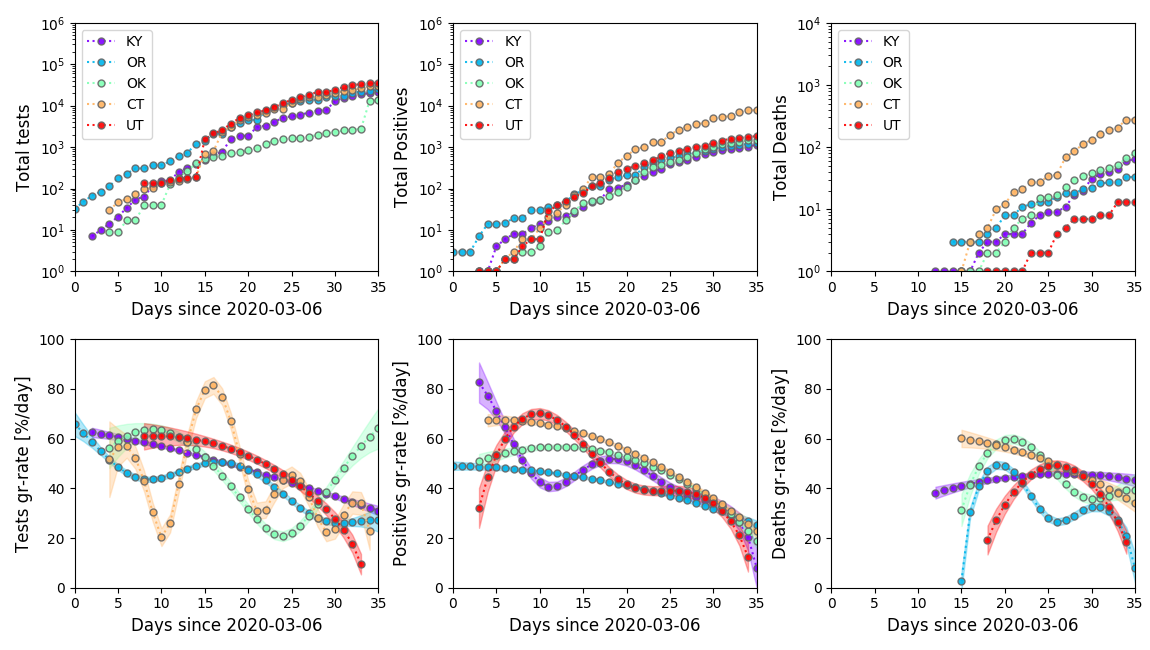
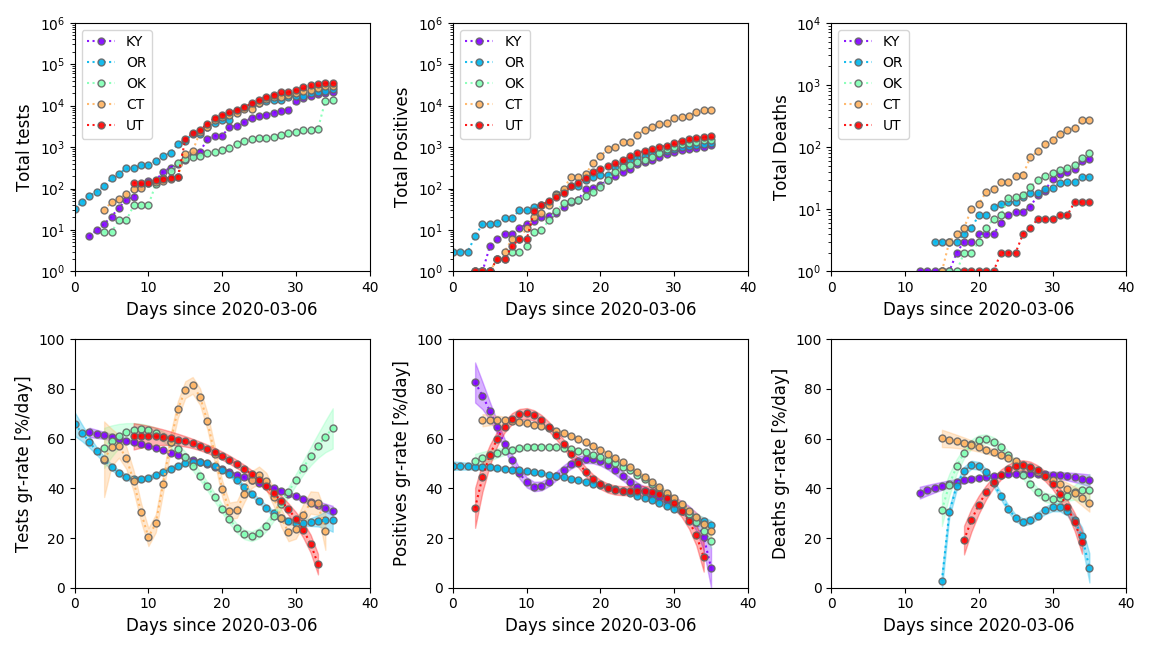
Update US rates relative to time figures

diff --git a/src/usa_states_rates_plot.py b/src/usa_states_rates_plot.py
@@ -76,12 +76,12 @@ def get_list_colors(cmapstr, N):
 
 def make_fig2(states):
     fig, axes = plt.subplots(ncols=3, nrows=2, figsize=(11.5, 6.5))
-    local_axes_formatting(axes[0, 0], "Days since 2020-03-06", "Total tests", xlim2=35, ylim2=1e06, xlim1=0, ylim1=1, fs=12, logx=False)
-    local_axes_formatting(axes[0, 1], "Days since 2020-03-06", "Total Positives", xlim2=35, ylim2=1e06, xlim1=0, ylim1=1, fs=12, logx=False)
-    local_axes_formatting(axes[0, 2], "Days since 2020-03-06", "Total Deaths", xlim2=35, ylim2=1e04, xlim1=0, ylim1=1, fs=12, logx=False)
-    local_axes_formatting(axes[1, 0], "Days since 2020-03-06", "Tests gr-rate [%/day]", xlim2=35, ylim2=100, xlim1=0, ylim1=0, fs=12, logx=False, logy=False)
-    local_axes_formatting(axes[1, 1], "Days since 2020-03-06", "Positives gr-rate [%/day]", xlim2=35, ylim2=100, xlim1=0, ylim1=0, fs=12, logx=False, logy=False)
-    local_axes_formatting(axes[1, 2], "Days since 2020-03-06", "Deaths gr-rate [%/day]", xlim2=35, ylim2=100, xlim1=0, ylim1=0, fs=12, logx=False, logy=False)
+    local_axes_formatting(axes[0, 0], "Days since 2020-03-06", "Total tests", xlim2=40, ylim2=1e06, xlim1=0, ylim1=1, fs=12, logx=False)
+    local_axes_formatting(axes[0, 1], "Days since 2020-03-06", "Total Positives", xlim2=40, ylim2=1e06, xlim1=0, ylim1=1, fs=12, logx=False)
+    local_axes_formatting(axes[0, 2], "Days since 2020-03-06", "Total Deaths", xlim2=40, ylim2=1e04, xlim1=0, ylim1=1, fs=12, logx=False)
+    local_axes_formatting(axes[1, 0], "Days since 2020-03-06", "Tests gr-rate [%/day]", xlim2=40, ylim2=100, xlim1=0, ylim1=0, fs=12, logx=False, logy=False)
+    local_axes_formatting(axes[1, 1], "Days since 2020-03-06", "Positives gr-rate [%/day]", xlim2=40, ylim2=100, xlim1=0, ylim1=0, fs=12, logx=False, logy=False)
+    local_axes_formatting(axes[1, 2], "Days since 2020-03-06", "Deaths gr-rate [%/day]", xlim2=40, ylim2=100, xlim1=0, ylim1=0, fs=12, logx=False, logy=False)
     sizes = 5#get_point_sizes(population.copy(), max_pop)
     min_date = states_df_rates['date'].min()
     #colors = plt.cm.get_cmap('jet', len(states))
